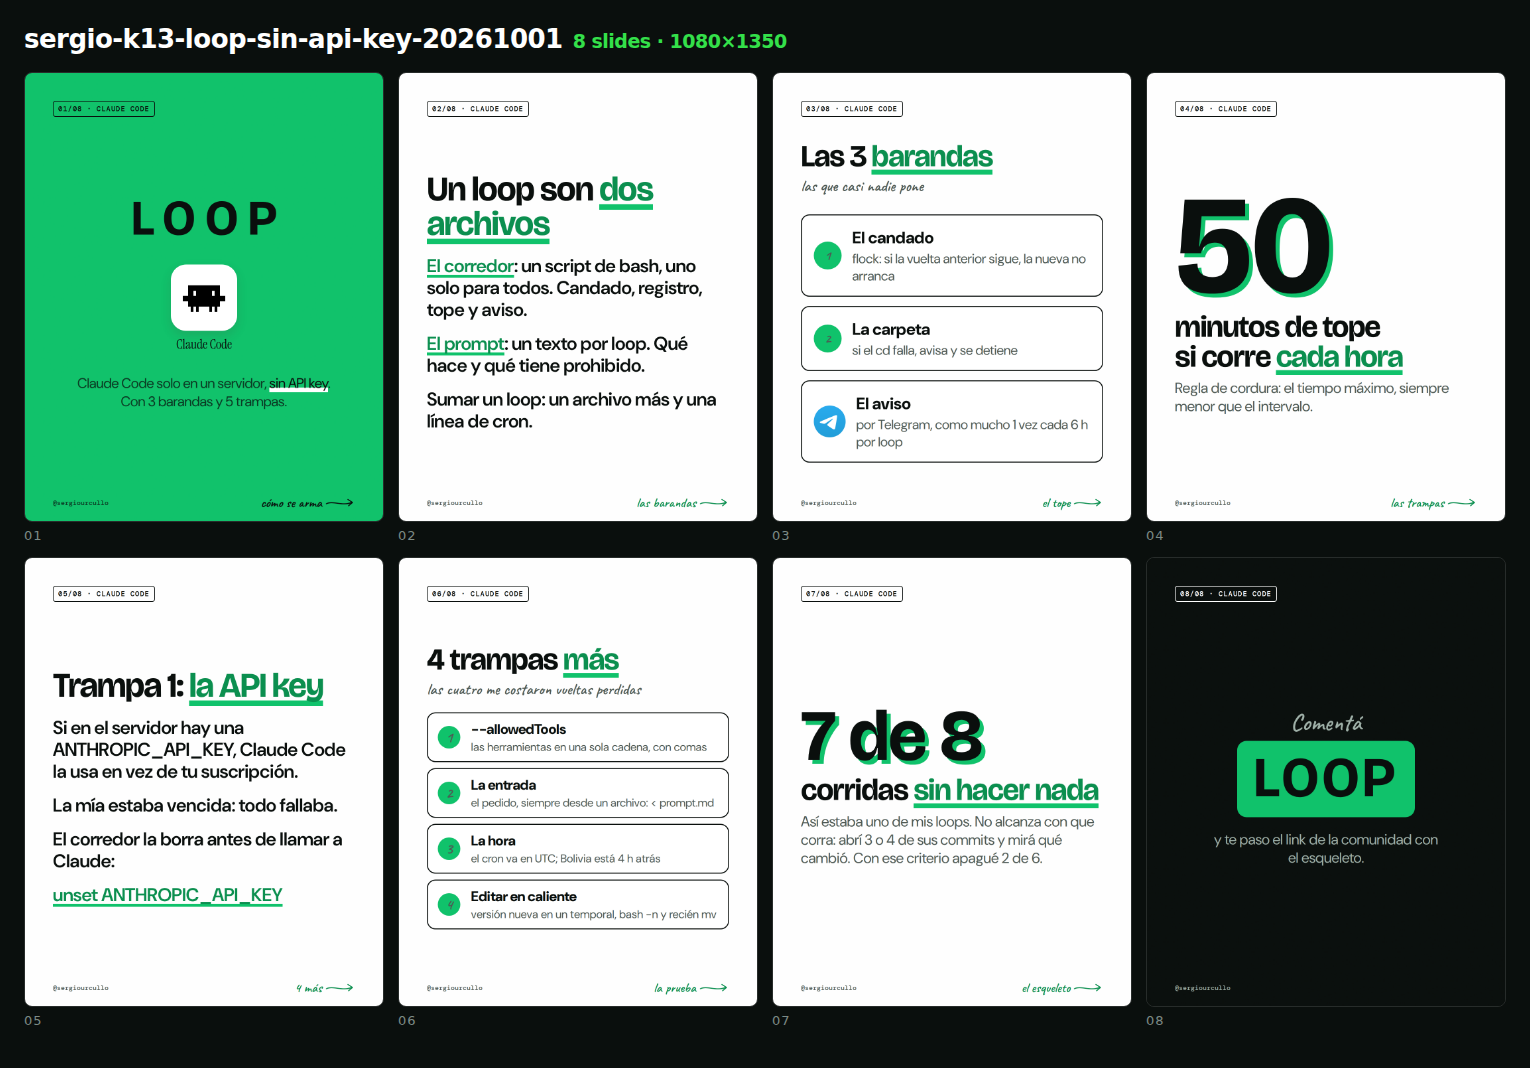
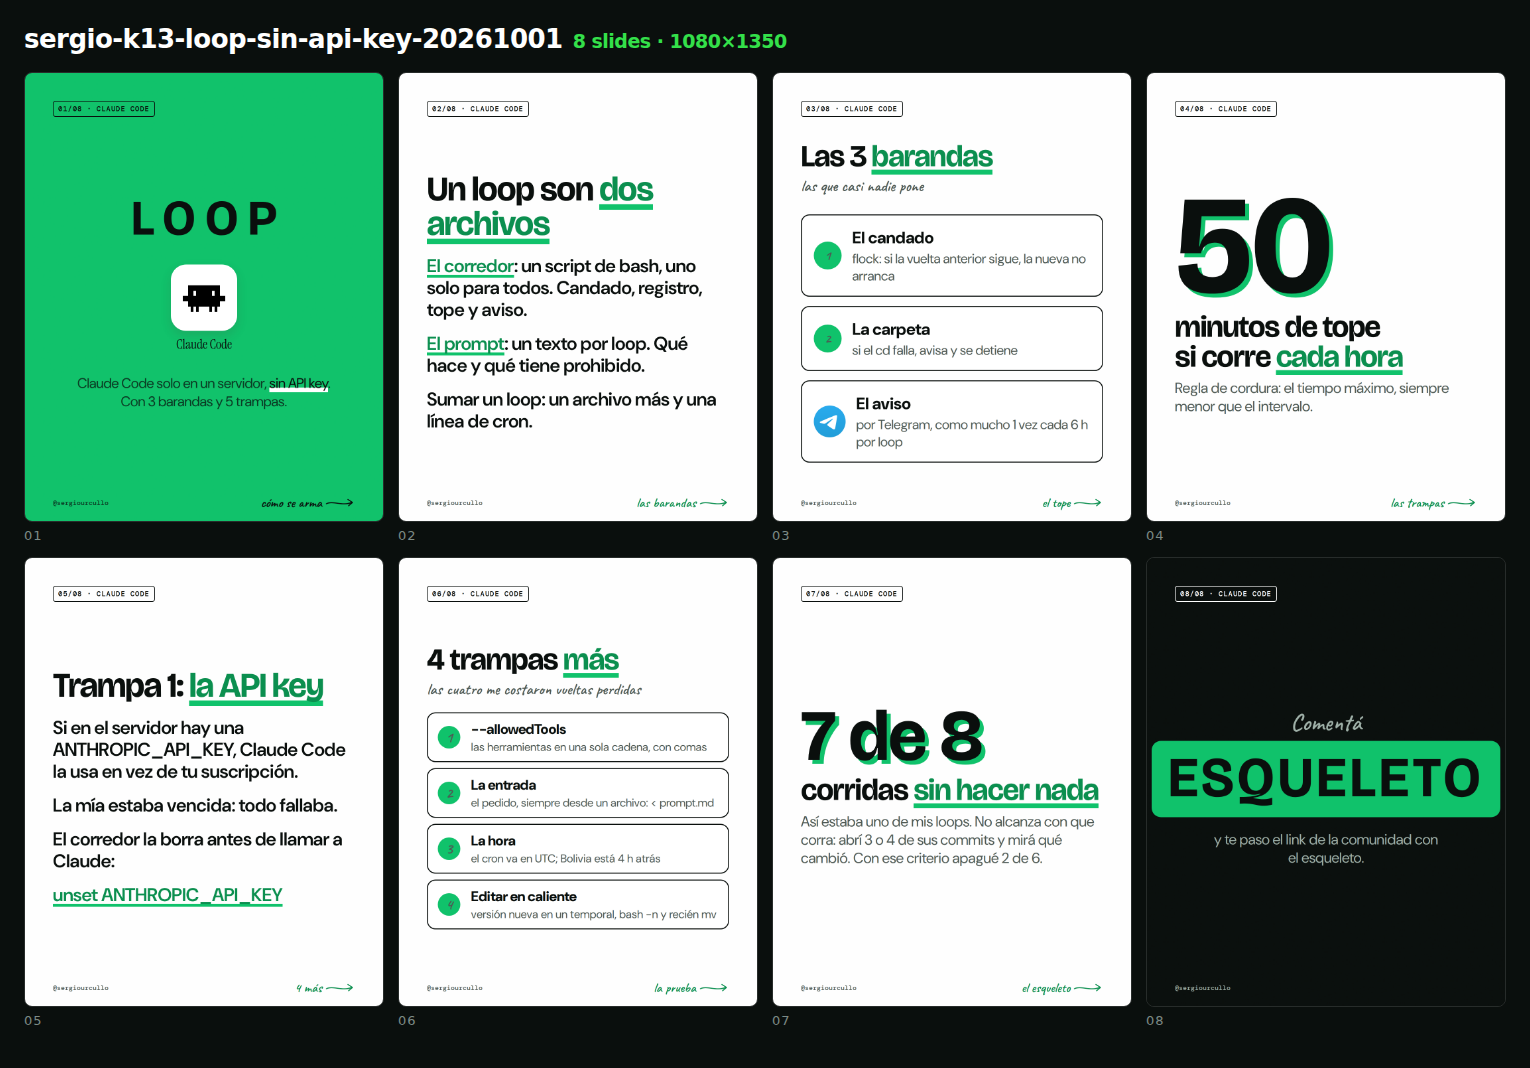
docs(skills): lo aprendido editando el video del modo auto y armando las noticias
Por qué: lo que costó una vuelta hoy no se repite.
- editor-videos: el ruido de fondo de Sergio Urcullo (~-25 dB) deja sin silencios al
  umbral de -32 dB; comparar lo dicho contra el guion por SENTIDO («deja de pasar»);
  cortar una palabra corta sin oído no es confiable; compartir la carpeta de Drive una vez.
- diseno-contenido-onia: capturas reales desde la nube (proxy, sitios que cargan y los
  que dan 403), trampas nuevas del pack, herramientas del contenedor, y que una noticia
  se re-verifica el día que se arma (N06 ya era falsa).
- Calendario: palabra de cada carrusel y los 4 carruseles de noticia; K13 cambia LOOP
  por ESQUELETO (LOOP ya se usó en septiembre con otro sentido).

Claude-Session: https://claude.ai/code/session_01CE21mytrEXdqanCFoWxm32

Changed region(s): [[0.7373, 0.6798, 0.983, 0.7725]]

diff --git a/.claude/skills/diseno-contenido-onia/SKILL.md b/.claude/skills/diseno-contenido-onia/SKILL.md
@@ -76,6 +76,22 @@ lámina sale SIN título. `"next": ""` saca la flecha «seguí» (para historias
 - **Sin imagen no hay K1-B.** El 1-oct, sin lote aprobado, K8, K11, K12 y K13 salieron solo con texto y se acercan a lo
   que Sergio Urcullo rechazó («vacío y con demasiado texto»). Lo que hace vender a K1-B son sus dos imágenes de arcilla:
   pedí el lote de portada + 1 interior ANTES de armar el carrusel, no después.
+- **`ilustrado` con `badge`:** si el primer renglón del título es largo, pasa por DEBAJO del sello sin avisar.
+  Arrancá el título con el énfasis o sacá el badge. Cada tramo y cada `*énfasis*` es un bloque: un énfasis en el
+  medio queda solo en su renglón; ponelo al final.
+- **Énfasis dentro de una fila de `lista`:** sale gris con subrayado verde (la regla `.c-lista li span` le gana).
+- **`captura` alta (más alta que ancha):** se limita a 760 px y el pie se monta sobre el @handle. Recortá la captura
+  más ancha que alta. **`cierre`:** el body no balancea renglones; espacio duro en las dos últimas palabras.
+- **Un logo como imagen de `ilustrado`:** ponelo sobre un lienzo blanco con margen; la máscara radial lo corta.
+- **Capturas reales desde la nube (2-oct):** Chromium con `--proxy-server=$HTTPS_PROXY`; si da
+  `ERR_CERT_AUTHORITY_INVALID`, la confianza en la CA del proxy se resuelve como dice `/root/.ccr/README.md` (nunca
+  apagando TLS). Cargan `platform.claude.com`, `developers.openai.com`, `geminicli.com`, `developers.googleblog.com`;
+  dan 403 por política `github.com` (web) y `openai.com/index/*`. Legible con viewport móvil de 430–560 px y escala 3;
+  ocultá los widgets flotantes («Ask Docs») antes de capturar. La captura va a `carousels/briefs/assets/<pieza>/`
+  con la fecha en el nombre y en el caption.
+- **Una noticia se re-verifica el día que se arma la pieza**, no el del guion: el 1-oct, N06 («Gemini CLI gratis»)
+  ya era falsa (reemplazado por Antigravity CLI para el plan gratis el 18-jun) aunque el README seguía diciendo gratis.
+  Manda el banner/blog oficial más nuevo, no el README.
 - **El pack no tiene layout de código ni monoespaciada.** Un bloque de código real necesita una captura.
 - **Foto con fondo gris en `analogia`**: el `multiply` solo borra el blanco puro y queda un recuadro gris. Sacale el fondo
   antes o elegí otra foto.
@@ -185,7 +201,11 @@ El CLI autenticado está en el VPS: `HF_CMD="ssh -i <llave> -o BatchMode=yes roo
 - `count: 2` da dos variantes del mismo prompt. Elegí mirando las dos: de 2 «muñecos en una mesa», 1 salió con caras
   verdes raras.
 - Bajá el resultado con curl desde cloudfront y registrá job, prompt y costo en `galeria.json` y en la bitácora.
-- **Sin PIL ni ffmpeg en el contenedor:** guardá el PNG tal cual. No encadenes `rm` después de una conversión que puede
+- **Herramientas (medido el 2-oct, entorno onia-higgsfield):** `ffmpeg` y `convert` (ImageMagick) están; PIL no.
+  ImageMagick no rasteriza SVG (falta rsvg): un logo SVG se rasteriza con Chromium. Una foto con fondo gris para
+  portada verde: `convert in -colorspace Gray -level 8%,84%,0.6 -white-threshold 93% out` la deja en blanco puro.
+  Con fondo gris, `-type TrueColor` o la salida queda en blanco y negro.
+- **Antes (1-oct) no había PIL ni ffmpeg:** guardá el PNG tal cual si falta la herramienta. No encadenes `rm` después de una conversión que puede
   fallar: el 1-oct se borraron los originales y hubo que bajarlos de nuevo.
 
 ## 7. Skills de diseño que se cargan con esta

diff --git a/.claude/skills/editor-videos/SKILL.md b/.claude/skills/editor-videos/SKILL.md
@@ -141,6 +141,19 @@ tabla de cortes + preview antes de aplicar · transcript como fuente de todo tex
   `parentId = '<id de carpeta>'` lista una carpeta. Sirve para ENCONTRAR el archivo; para bajarlo sigue siendo `curl` a
   `drive.usercontent.google.com` (probado: 200, 8,6 MB, con un archivo compartido por enlace). Un archivo que se está
   subiendo no aparece en la búsqueda hasta que termina.
+- **Video del 1-oct (N03), lo medido:** con el micrófono de Sergio Urcullo el ruido de fondo queda en ~-25 dB y el
+  `--noise -32dB` de `cut-plan.mjs` no encontró NINGÚN silencio. Medí antes (`ffmpeg -af volumedetect`, y
+  `silencedetect` a -28/-25 dB) y usá ~-27 dB con `--min-sil 0.4`.
+- **Compará lo que DIJO contra el guion buscando sentido invertido, no solo ortografía.** Dijo «deja DE pasar» dos
+  veces donde el guion decía «deja pasar» (lo que el modo auto PERMITE): small y medium coincidieron, así que no era
+  error de Whisper.
+- **Sacar una palabra corta («de») sin oído no es confiable.** La envolvente RMS confunde sílabas, y Whisper como juez
+  es parcial: completa «deja de…» por costumbre o, si el corte se come el «pa», oye «deja de estar». Probado: el
+  modelo medium sobre el tramo AISLADO, con y sin `initial_prompt`; si con prompt oye «deja pasar» y sin prompt no
+  oye «de», el corte sirve, pero igual lo escucha Sergio Urcullo en el preview. Si la frase es solo una transición,
+  cortala ENTERA (más seguro).
+- **Drive, una vez y para siempre:** que Sergio Urcullo comparta la CARPETA «Videos Onia Octubre» con «cualquier
+  persona con el enlace». Lo que suba adentro hereda el acceso y se baja con curl sin pedirle nada por archivo.
 - **Transcribir sin Speaches:** `pip install faster-whisper` (~1 min) y el modelo `small` (int8, CPU) se baja solo de
   HuggingFace. Con `word_timestamps=True` sale `{segments:[{start,end,text}], words:[{start,end,word}]}`, el formato
   que comen `cut-plan.mjs` y `karaoke-captions.mjs`. Forzá `language="es"`.

diff --git a/hermes-content/docs/cola/plan-3-semanas/CARRUSELES-DIARIOS.md b/hermes-content/docs/cola/plan-3-semanas/CARRUSELES-DIARIOS.md
@@ -34,6 +34,20 @@ Antes de cada uno, el recurso que promete su cierre tiene que estar publicado; s
 | mar 13-oct | K7 | Carruseles por código | `sergio-k7v2-carruseles-por-codigo-20260929` | el JSON que se manda por DM | listo para aprobar |
 | mié 14-oct | K8 | Recuperar vs reconstruir | `sergio-k8v3-recuperar-vs-reconstruir-20261001` | drop D9 de S3 (escrito «por DM»: pasarlo a comunidad) | listo para aprobar |
 
+**Palabra de cada carrusel (cierre `cierre`, 2-oct):** K10 EFFORT · K1 TRAMPA · K2 SKILL · K6 PROMESA · K3 HISTORIA ·
+K11 HOOK · K4 PRUEBAS · K9 REVISAR · K12 WORKTREE · K5 VENTANA · K13 ESQUELETO · K7 BRIEF · K8 PROMPT. Es la misma
+palabra que su video, para que el DM mande al mismo recurso.
+
+**Carruseles de noticia (2-oct, mismo día que su video, 12:00 La Paz — la noticia se vence):**
+
+| Fecha | Pieza | Carpeta | Palabra | Estado |
+|---|---|---|---|---|
+| con el video V2 | N03 modo auto | `sergio-n03-modo-auto-20261001` | COMUNIDAD (la que dijo en el video) | listo para aprobar |
+| vie 2-oct | DD-A OpenAI Sol | `sergio-dda-openai-sol-20261001` | CACHE | listo; falta escribir su drop |
+| dom 4-oct | N02 Sonnet 4.5 se apaga | `sergio-n02-sonnet45-se-apaga-20261001` | MIGRAR | listo para aprobar |
+| lun 5-oct | N04 skill verify | `sergio-n04-skill-verify-20261001` | VERIFY | listo para aprobar |
+| ~~sáb 3-oct~~ | ~~N06 Gemini CLI~~ | — | — | ⛔ premisa falsa (Antigravity CLI reemplazó el plan gratis el 18-jun); se reemplaza por un repo de la reserva |
+
 Hora: **16:00 La Paz** (20:00 UTC) todos. K14–K21 quedan para después del 14-oct (§2).
 Se agendan con `deploy/vps-ops/publicar/ig-carrusel.mjs` + `agendar-publicacion.sh`, recién con el «ok» de Sergio
 Urcullo sobre cada uno.
